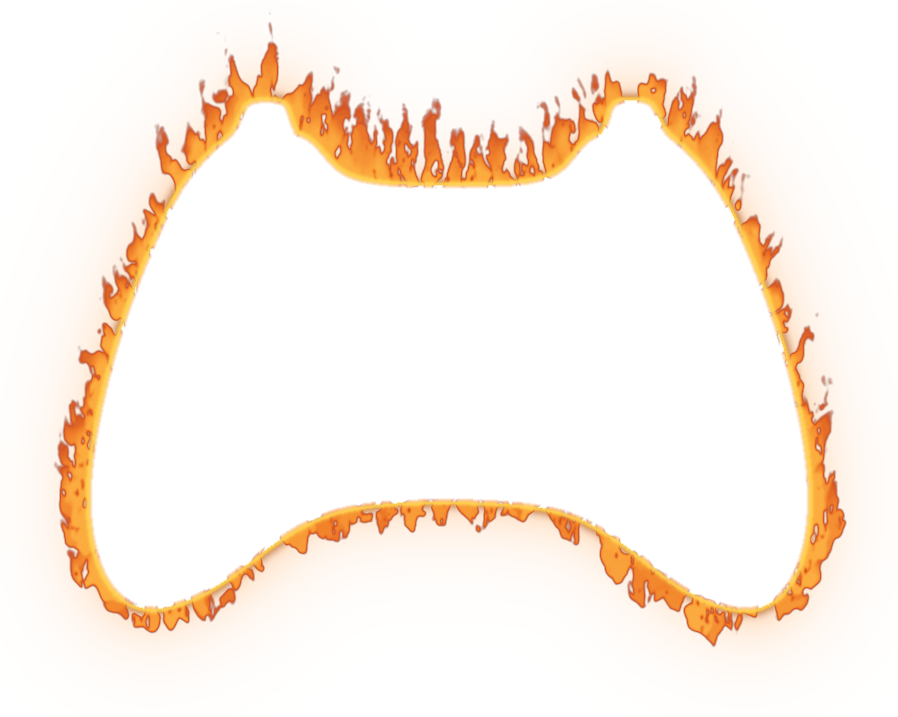
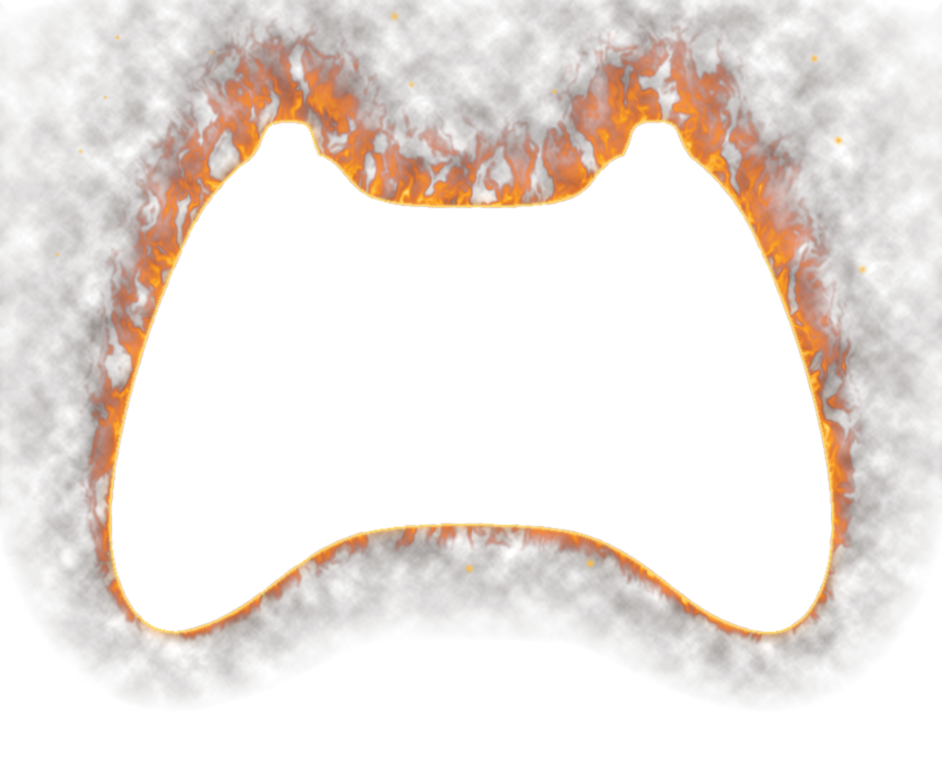
Button Mapping: flames redone after K's upscale of the original
A fire behind the pad seen past its outline: a thin band at the bottom growing
into big flames over the top, photographic texture (swirled, ridged noise,
see-through with yellow cores and red edges), the wall scorched dark round it,
a few sparks, a thin pale-yellow rim with a narrow orange glow.

Claude-Session: https://claude.ai/code/session_015nceD1zg8rpj3ck4CbL98F

diff --git a/tools/options/make_pad_art.py b/tools/options/make_pad_art.py
@@ -22,7 +22,7 @@ from PIL import Image
 from scipy import ndimage as nd
 
 ROOT = os.path.dirname(os.path.dirname(os.path.dirname(os.path.abspath(__file__))))
-MARGIN = 0.16   # the flames' room round the render (of its height)
+MARGIN = 0.20   # the flames' room round the render (of its height)
 BANDS = 64      # silhouette bands
 
 # Each pad: its buttons (render pixels: x, y, how far short of the point its line stops) and the columns' rows. A row
@@ -56,12 +56,13 @@ PADS = {
         right=['start', 'r2', 'r1', 'north', 'east', 'south', 'west', 'r3', 'rstick']),
 }
 
-# The flames (K, Nov 14, after the original): a pale yellow rim (yellow, not white) on a hot orange band, flame butts
-# clumped round the bottom and lower sides, ragged feathered tongues spread evenly round the outline (every SPACING
-# lines), rising and curling up, longest where the outline faces up, tapering off a short way out; a broad orange glow.
-FIRE = dict(spacing=6.5, L0=8.0, Lup=20.0, Lside=7.0, W=4.4, out=1.2, bend=0.3, fade=0.45, butt=5.0, ragged=1.0,
-            band=1.6, band_heat=0.75, rim=1.6, rim_a=0.9, rim_rgb=(255, 214, 85), glow=12.0, glow_a=0.55, soft=0.35,
-            alpha=0.88, warp=3.5)
+# The flames (K, Nov 14, from his upscale of the original): a fire behind the pad, seen past its outline: a thin band
+# at the bottom growing into big flames over the top (reach Rbot..Rtop lines by the outline's height, Rup more where it
+# faces up); flame texture from swirled, ridged noise stretched up and down (wispy, see-through, yellow cores, red
+# edges); the wall scorched dark round it (char); a few sparks; a thin pale-yellow rim with a narrow orange glow.
+FIRE = dict(Rbot=3.0, Rtop=19.0, Rup=7.0, rise=1.0, warp=6.0, sy=13.0, sx=4.5, fallpow=1.3, gain=1.3, cut=0.7,
+            alpha_gain=1.3, ridge=0.6, char=0.45, char_reach=1.3, sparks=14, rim=1.3, rim_a=0.95,
+            rim_rgb=(255, 222, 120), glow=1.8, glow_a=0.6)
 PAD_LINES = 190.0     # the pad's height on the page (options_overlay.cpp kMapPadHeight)
 XBOX_BLUR = 1.1       # K: the Xbox render reads over-sharpened next to the softened text (render pixels)
 
@@ -90,15 +91,28 @@ def ramp(t, stops):
     return out
 
 
-def fbm_n(shape, rng, scales, weights, stretch=(1.0, 1.0)):
-    """fbm normalised to mean 0.5, about a sixth spread."""
-    z = fbm(shape, rng, scales, weights, stretch)
-    return (z - z.mean()) / (z.std() * 3.0) + 0.5
+def noise2(shape, rng, scale_y, scale_x):
+    """Smooth value noise, one octave, its cells scale_y x scale_x pixels."""
+    h, w = shape
+    gh, gw = max(2, int(h / scale_y) + 3), max(2, int(w / scale_x) + 3)
+    z = nd.zoom(rng.random((gh, gw)).astype(np.float32), ((h + 2 * scale_y) / gh, (w + 2 * scale_x) / gw), order=3)
+    return z[:h, :w]
+
+
+def fbm2(shape, rng, sy, sx, octaves=4, gain=0.55):
+    """Octaves of noise2 halving in size, normalised to mean 0.5, about a sixth spread."""
+    out, amp, total = np.zeros(shape, np.float32), 1.0, 0.0
+    for o in range(octaves):
+        out += amp * noise2(shape, rng, max(sy / 2 ** o, 1.5), max(sx / 2 ** o, 1.5))
+        total += amp
+        amp *= gain
+    out /= total
+    return (out - out.mean()) / (out.std() * 3.0) + 0.5
 
 
 def flames(render, seed):
-    """The flame outline (RGBA, half the render's resolution, MARGIN of its height round it): tongues and butts placed
-    along the outline (FIRE), pushed about by noise and eaten at the tips, over a hot band, a rim and a glow."""
+    """The flame outline (RGBA, half the render's resolution, MARGIN of its height round it): scorch, glow, fire,
+    sparks and rim, composited (FIRE)."""
     p = FIRE
     W, H = render.size
     scale = 0.5
@@ -109,89 +123,49 @@ def flames(render, seed):
     mask = a > 0.5
     hh, ww = a.shape
     u = h / PAD_LINES  # pixels a line
-    dist = nd.distance_transform_edt(~mask).astype(np.float32) / u
-    inside = nd.distance_transform_edt(mask).astype(np.float32) / u
-    gy, gx = np.gradient(nd.gaussian_filter(dist - inside, 3 * u))
-    nrm = np.hypot(gx, gy) + 1e-6
-    nx, ny = gx / nrm, gy / nrm  # the outward normal
     rng = np.random.default_rng(seed)
+    dist, idx = nd.distance_transform_edt(~mask, return_indices=True)
+    dist = dist.astype(np.float32) / u
+    inside = nd.distance_transform_edt(mask).astype(np.float32) / u
     rows = np.where(mask.any(axis=1))[0]
     top, bot = rows[0], rows[-1]
-    # Outline points, evenly spread: in random order, each kept only clear of the kept ones by SPACING.
-    pts = np.argwhere(mask & ~nd.binary_erosion(mask))
-    rng.shuffle(pts)
-    sp = p['spacing'] * u
-    grid, keep = {}, []
-    for y, x in pts:
-        cy, cx = int(y // sp), int(x // sp)
-        if all((yy - y) ** 2 + (xx - x) ** 2 >= sp * sp
-               for dy in (-1, 0, 1) for dx in (-1, 0, 1) for (yy, xx) in grid.get((cy + dy, cx + dx), ())):
-            grid.setdefault((cy, cx), []).append((y, x))
-            keep.append((y, x))
-    heat = np.zeros((hh, ww), np.float32)
-
-    def stamp(y_lo, y_hi, x_lo, x_hi, fn):
-        y_lo, y_hi, x_lo, x_hi = max(0, int(y_lo)), min(hh, int(y_hi)), max(0, int(x_lo)), min(ww, int(x_hi))
-        if y_hi <= y_lo or x_hi <= x_lo:
-            return
-        Y, X = np.mgrid[y_lo:y_hi, x_lo:x_hi].astype(np.float32)
-        region = heat[y_lo:y_hi, x_lo:x_hi]
-        np.maximum(region, fn(Y, X), out=region)
-
-    def tongue(y0, x0, dx, dy, L, Wd, bend):
-        ts = np.linspace(0, 1, 14, dtype=np.float32)
-        sx, sy = x0 + dx * L * ts, y0 + dy * L * ts - bend * L * ts ** 2
-        r = Wd * (1 - ts) ** 0.75 + 0.35 * u
-        def fn(Y, X):
-            best = np.zeros(Y.shape, np.float32)
-            for i in range(len(ts)):
-                v = np.clip((r[i] - np.hypot(X - sx[i], Y - sy[i])) / (0.7 * u), 0, 1) * (1 - ts[i]) ** p['fade']
-                np.maximum(best, v, out=best)
-            return best
-        stamp(sy.min() - Wd - 3, sy.max() + Wd + 3, sx.min() - Wd - 3, sx.max() + Wd + 3, fn)
-
-    def blob(y0, x0, R, strength):
-        stamp(y0 - R - 3, y0 + R + 3, x0 - R - 3, x0 + R + 3,
-              lambda Y, X: np.clip((R - np.hypot(X - x0, Y - y0)) / (0.8 * u), 0, 1) * strength)
-
-    for y, x in keep:
-        ex, ey = nx[y, x], ny[y, x]
-        rel = (y - top) / max(bot - top, 1)
-        facing_up, facing_down, side = max(0.0, -ey), max(0.0, ey), abs(ex)
-        low = float(np.clip((rel - 0.35) / 0.5, 0, 1))
-        # Flame butts: clumps hugging the bottom and the lower sides.
-        if low > 0 or facing_down > 0.4:
-            k = max(low, facing_down)
-            for _ in range(2):
-                R = p['butt'] * u * (0.5 + 0.7 * rng.random()) * (0.5 + 0.6 * k)
-                off = R * (0.2 + 0.4 * rng.random())
-                blob(y + ey * off + (rng.random() - 0.5) * R, x + ex * off + (rng.random() - 0.5) * R, R, 0.75 + 0.25 * rng.random())
-        # Tongues from every point that does not face down, out and up, curling upward.
-        if facing_down < 0.55:
-            d = np.array([ex * p['out'], ey * p['out'] - 1.0])
-            d /= np.linalg.norm(d)
-            L = (p['L0'] + p['Lup'] * facing_up ** 1.5 + p['Lside'] * side * low) * u * (0.7 + 0.6 * rng.random())
-            Wd = p['W'] * u * (0.8 + 0.4 * rng.random()) * (1 + 0.5 * low)
-            tongue(y - ey * 0.5 * u, x - ex * 0.5 * u, d[0], d[1], L, Wd, p['bend'] * side)
-    # Turbulence: pushed about by noise (wispy edges), eaten by streaky noise toward the tips.
-    wx = (fbm_n((hh, ww), rng, [4 * u, 2 * u], [1, 0.5], stretch=(2.0, 1)) - 0.5) * p['warp'] * u
-    wy = (fbm_n((hh, ww), rng, [4 * u, 2 * u], [1, 0.5], stretch=(2.0, 1)) - 0.5) * p['warp'] * u * 1.6
+    rel = np.clip((idx[0].astype(np.float32) - top) / max(bot - top, 1), 0, 1)  # the nearest outline point's height
+    gy, gx = np.gradient(nd.gaussian_filter(dist - inside, 3 * u))
+    up = np.clip(-gy / (np.hypot(gx, gy) + 1e-6), 0, 1)
+    reach = (p['Rbot'] + (p['Rtop'] - p['Rbot']) * (1 - rel) ** p['rise'] + p['Rup'] * up) * u
     Y, X = np.mgrid[0:hh, 0:ww].astype(np.float32)
-    heat = nd.map_coordinates(heat, [Y + wy, X + wx], order=1, mode='constant')
-    feather = fbm_n((hh, ww), rng, [2.5 * u, 1.2 * u, 0.6 * u], [1, 0.7, 0.5], stretch=(2.6, 1))
-    heat = heat * np.clip((feather - (1 - heat) * p['ragged'] + 0.2) / 0.3, 0, 1)
-    heat = nd.gaussian_filter(heat, p['soft'] * u)
-    heat = np.maximum(heat, np.exp(-dist / p['band']) * (~mask) * p['band_heat'])  # the hot band on the outline
-    fire_rgb = ramp(heat, [(0.0, (45, 5, 0)), (0.3, (125, 20, 0)), (0.55, (200, 55, 5)), (0.8, (238, 112, 18)),
-                           (1.0, (252, 165, 45))])
-    fire_a = np.clip((heat - 0.04) / 0.55, 0, 1) ** 1.2 * p['alpha']
-    rim = np.exp(-(np.maximum(dist - 0.3 * p['rim'], 0) / (0.6 * p['rim'])) ** 2)
+    wx = (fbm2((hh, ww), rng, 14 * u, 10 * u) - 0.5) * p['warp'] * u
+    wy = (fbm2((hh, ww), rng, 14 * u, 10 * u) - 0.5) * p['warp'] * u
+    base = nd.map_coordinates(fbm2((hh, ww), rng, p['sy'] * u, p['sx'] * u, octaves=5), [Y + wy, X + wx], order=1, mode='reflect')
+    flame = (1 - p['ridge']) * base + p['ridge'] * (1.0 - np.abs(2.0 * base - 1.0)) ** 2
+    fall = np.clip(1.0 - dist / np.maximum(reach, 1e-3), 0, 1)
+    heat = np.clip(flame * fall ** p['fallpow'] * p['gain'] - (1 - fall) * p['cut'], 0, 1)
+    heat[mask] = 0
+    heat = nd.gaussian_filter(heat, 0.4 * u)
+    fire_rgb = ramp(heat, [(0.0, (70, 8, 0)), (0.25, (170, 35, 0)), (0.5, (235, 95, 10)), (0.75, (250, 160, 35)),
+                           (1.0, (255, 225, 120))])
+    fire_a = np.clip(heat * p['alpha_gain'], 0, 1) ** 0.9
+    char = np.clip(1 - dist / (reach * p['char_reach'] + 6 * u), 0, 1) ** 0.8 * \
+        (0.55 + 0.6 * (fbm2((hh, ww), rng, 8 * u, 8 * u) - 0.5)) * p['char']
+    char[mask] = 0
+    sparks = np.zeros((hh, ww), np.float32)
+    cand = np.argwhere((fall > 0.05) & (fall < 0.6) & (~mask))
+    for k in rng.choice(len(cand), size=min(int(p['sparks']), len(cand)), replace=False):
+        y, x = cand[k]
+        r = (0.35 + 0.5 * rng.random()) * u
+        y0, y1 = int(max(0, y - 3 * r - 2)), int(min(hh, y + 3 * r + 2))
+        x0, x1 = int(max(0, x - 3 * r - 2)), int(min(ww, x + 3 * r + 2))
+        yy, xx = np.mgrid[y0:y1, x0:x1].astype(np.float32)
+        v = np.exp(-((yy - y) ** 2 + (xx - x) ** 2) / (2 * r * r)) * (0.6 + 0.4 * rng.random())
+        np.maximum(sparks[y0:y1, x0:x1], v, out=sparks[y0:y1, x0:x1])
+    rim = np.exp(-(np.maximum(dist - 0.2 * p['rim'], 0) / (0.55 * p['rim'])) ** 2)
     rim = np.where(mask, np.clip(1 - inside / (0.5 * p['rim']), 0, 1), rim)
-    glow = (0.5 * np.exp(-dist / 2.5) + 0.5 * np.exp(-dist / p['glow'])) * p['glow_a']
+    glow = np.exp(-dist / p['glow']) * p['glow_a']
     glow[mask] = 0
-    rgb = np.array((255, 140, 40), np.float32)[None, None] * glow[..., None]
-    al = glow.copy()
-    for c, ca in ((fire_rgb, fire_a), (np.broadcast_to(np.array(p['rim_rgb'], np.float32), fire_rgb.shape), rim * p['rim_a'])):
+    rgb, al = np.zeros((hh, ww, 3), np.float32), np.zeros((hh, ww), np.float32)
+    for c, ca in ((np.array((22, 10, 4), np.float32), char), (np.array((255, 130, 30), np.float32), glow), (fire_rgb, fire_a),
+                  (np.array((255, 190, 70), np.float32), sparks), (np.array(p['rim_rgb'], np.float32), rim * p['rim_a'])):
+        c = np.broadcast_to(c, rgb.shape)
         rgb = c * ca[..., None] + rgb * (1 - ca[..., None])
         al = ca + al * (1 - ca)
     col = np.where(al[..., None] > 1e-4, rgb / np.maximum(al[..., None], 1e-4), 0)
